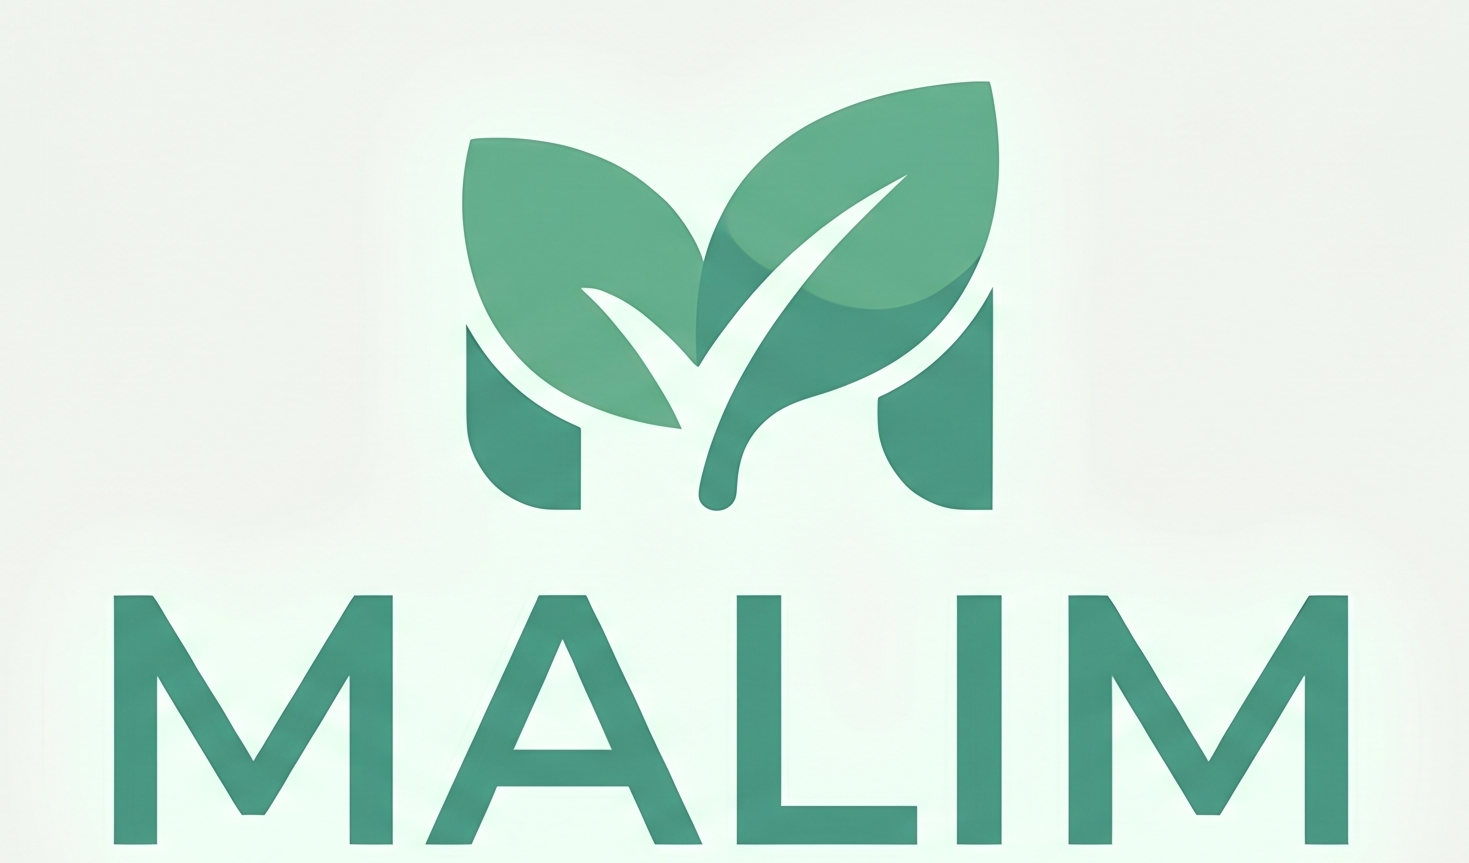
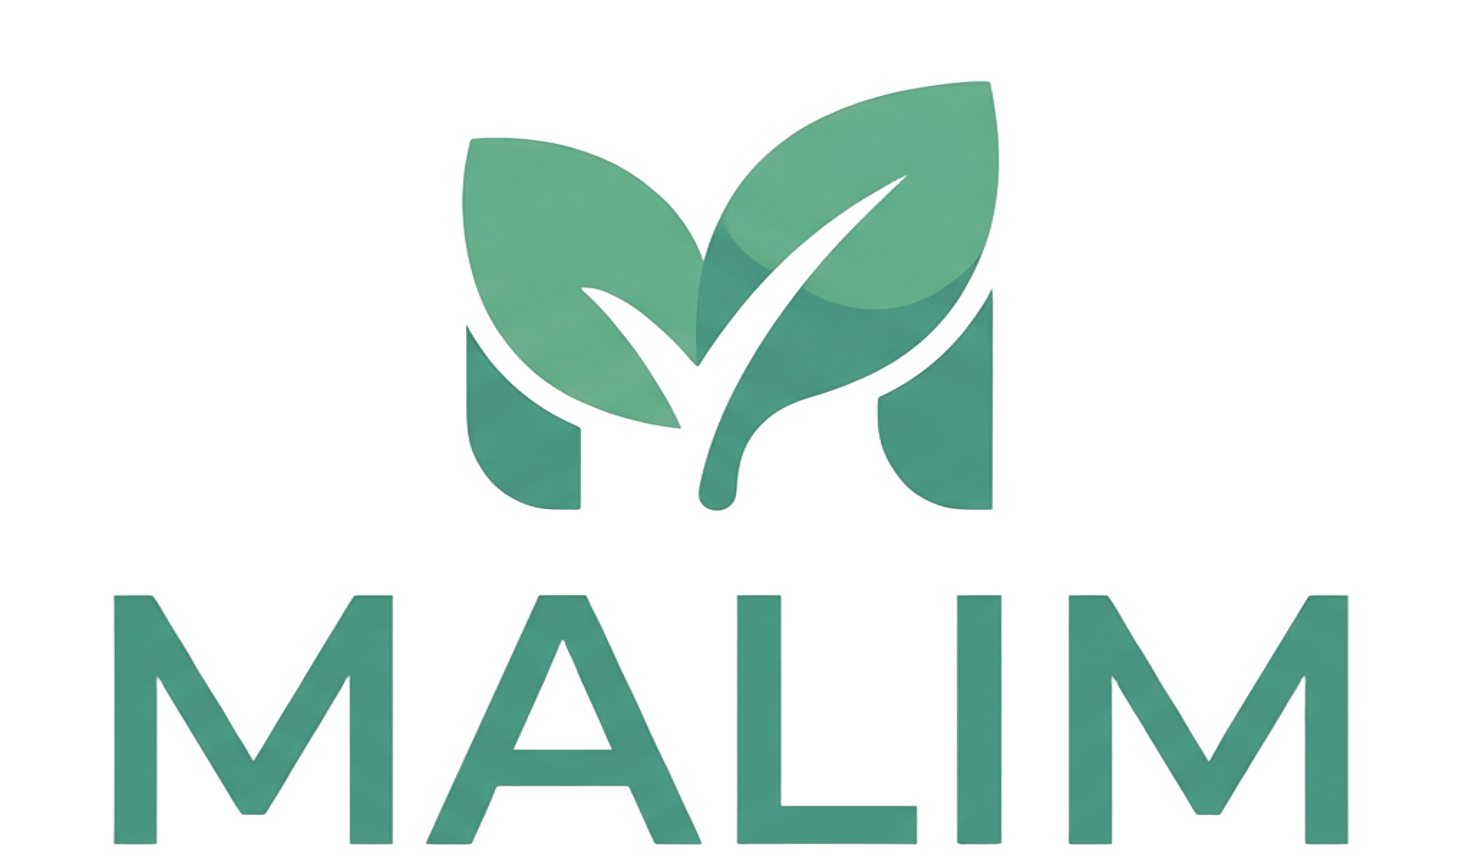
fix: mostrar 'Usuario: login' en header; actualizar imagenes sin fondo

Changed region(s): [[0.5208, 0.9641, 0.6127, 0.9942]]

diff --git a/script_espacios_publicos.js b/script_espacios_publicos.js
@@ -100,7 +100,7 @@ document.getElementById('loginForm').addEventListener('submit', async function(e
             card.classList.remove('login-success');
             document.getElementById('loginScreen').style.display = 'none';
             document.getElementById('mainApp').style.display = 'block';
-            document.getElementById('headerUserName').textContent = data.usuario.Nombre;
+            document.getElementById('headerUserName').textContent = 'Usuario: ' + data.usuario.Usuario;
             setHeaderDate();
             setDefaultDate();
             cargarCatalogos();
@@ -840,7 +840,7 @@ function esc(val) {
             const u = JSON.parse(usr);
             document.getElementById('loginScreen').style.display = 'none';
             document.getElementById('mainApp').style.display = 'block';
-            document.getElementById('headerUserName').textContent = u.Nombre;
+            document.getElementById('headerUserName').textContent = 'Usuario: ' + u.Usuario;
             setHeaderDate();
             setDefaultDate();
             cargarCatalogos();